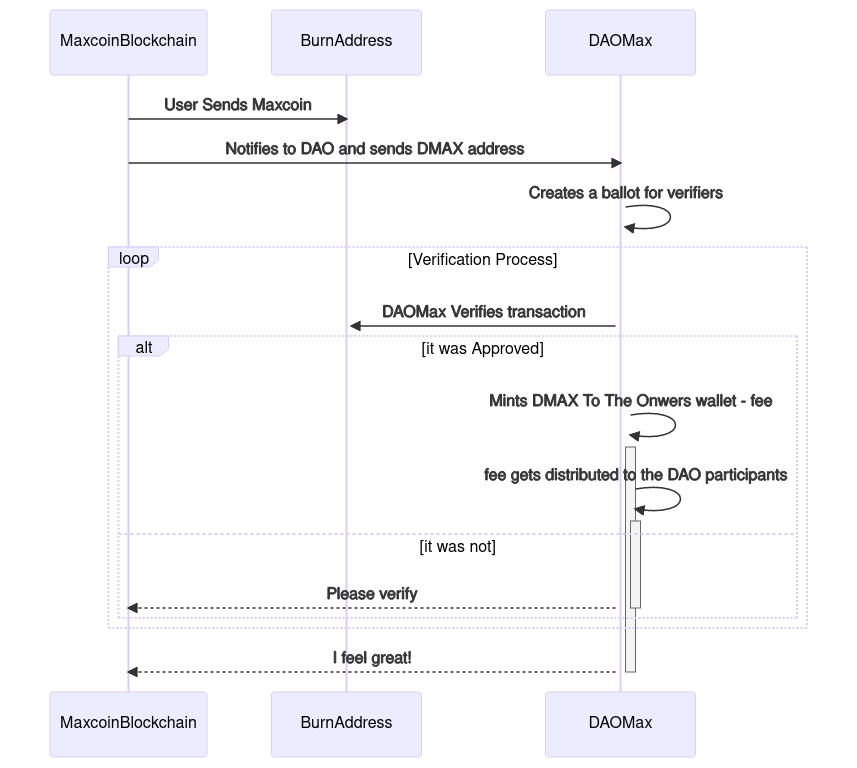
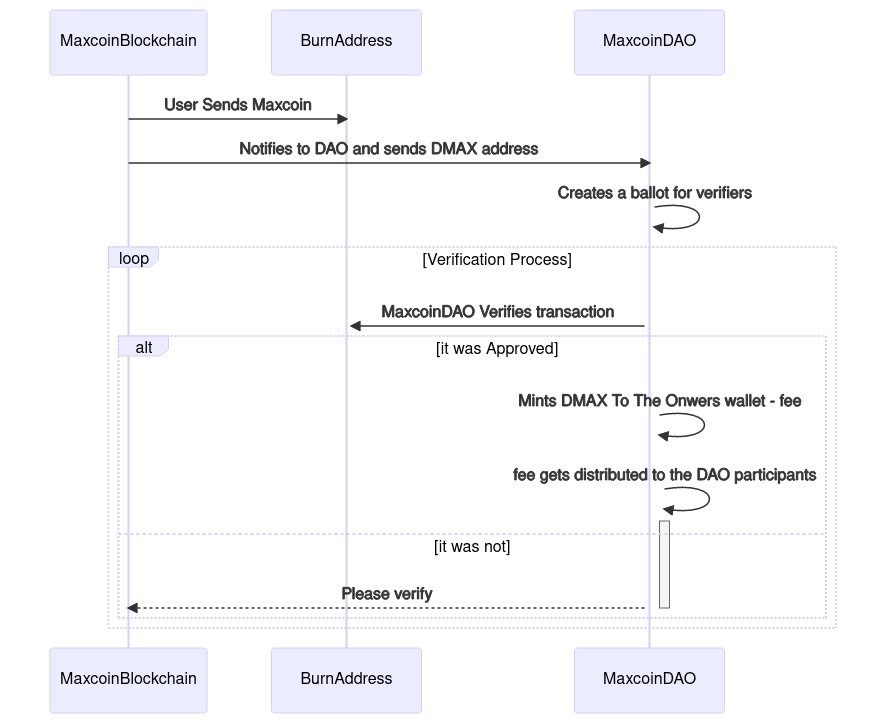
some last commits

diff --git a/_layouts/governance.html b/_layouts/governance.html
@@ -5,7 +5,7 @@ layout: page
 
 {% include lang.html %}
 
-<p><strong>TBA</strong></p>
+<p>Maxcoin DAO has the goal to Develop and provide governance in the Maxcoin Project desitions, also it will help to make Maxcoin Project deflationary and incentive people to participate in the project decisions. In the following documents we describe the generalities to make it work, technologies, protocols and processes.</p>
 
 {% assign HEAD_PREFIX = "h_" %}
 {% assign LIST_PREFIX = "l_" %}

diff --git a/_posts/2021-12-15-maxcoin-dao.md b/_posts/2021-12-15-maxcoin-dao.md
@@ -55,15 +55,15 @@ Maxcoin DAO has the goal to Develop and provide governance in the Maxcoin Projec
 ```
 sequenceDiagram
     MaxcoinBlockchain->>+BurnAddress: User Sends Maxcoin
-    MaxcoinBlockchain->>+DAOMax: Notifies to DAO and sends DMAX address
-    DAOMax->>+DAOMax: Creates a ballot for verifiers
+    MaxcoinBlockchain->>+MaxcoinDAO: Notifies to DAO and sends DMAX address
+    MaxcoinDAO->>+MaxcoinDAO: Creates a ballot for verifiers
     loop Verification Process
-        DAOMax->>+BurnAddress: DAOMax Verifies transaction
+        MaxcoinDAO->>+BurnAddress: MaxcoinDAO Verifies transaction
         alt it was Approved
-            DAOMax->>+DAOMax: Mints DMAX To The Onwers wallet - fee
-            DAOMax->>+DAOMax: fee gets distributed to the DAO participants
+            MaxcoinDAO->>+MaxcoinDAO: Mints DMAX To The Onwers wallet - fee
+            MaxcoinDAO->>+MaxcoinDAO: fee gets distributed to the DAO participants
         else it was not
-            DAOMax-->>-MaxcoinBlockchain: Please verify
+            MaxcoinDAO-->>-MaxcoinBlockchain: Please verify
         end
     end
 
